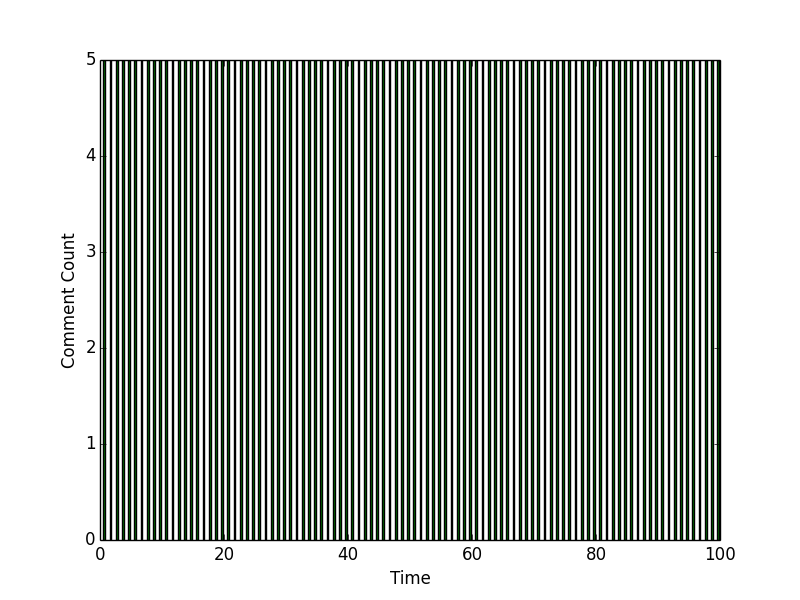
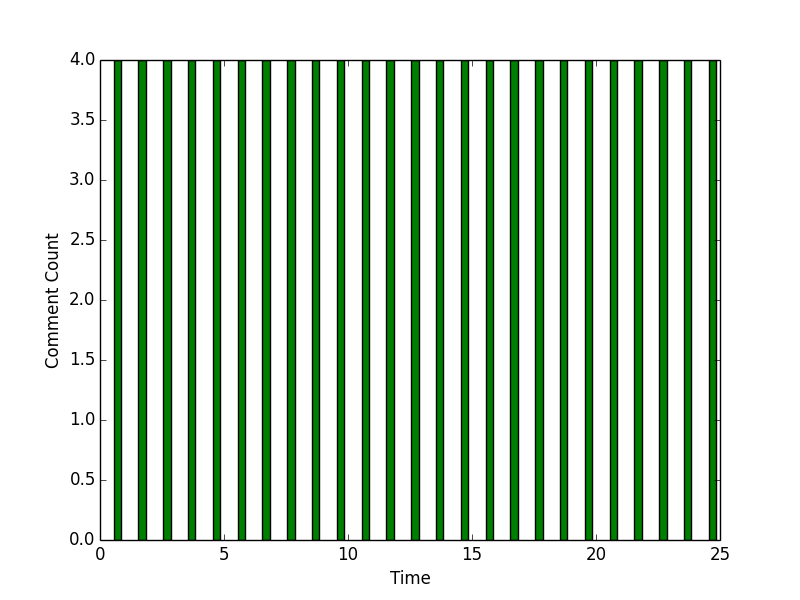
lowered the comment count

diff --git a/pythonVersion/graph.py b/pythonVersion/graph.py
@@ -53,4 +53,4 @@ def graph(url):
     plt.savefig('views.png')
     ax.clear()
 
-graph('http://contextminer.org/api.php/campaigns?u=chirags%40rutgers.edu&cid=516&source=youtube&everytime=1&ytid=wm4o1fYtCTQ&page=4&limit=100&fmt=json')
+graph('http://contextminer.org/api.php/campaigns?u=chirags%40rutgers.edu&cid=516&source=youtube&everytime=1&ytid=wm4o1fYtCTQ&page=4&limit=25&fmt=json')
